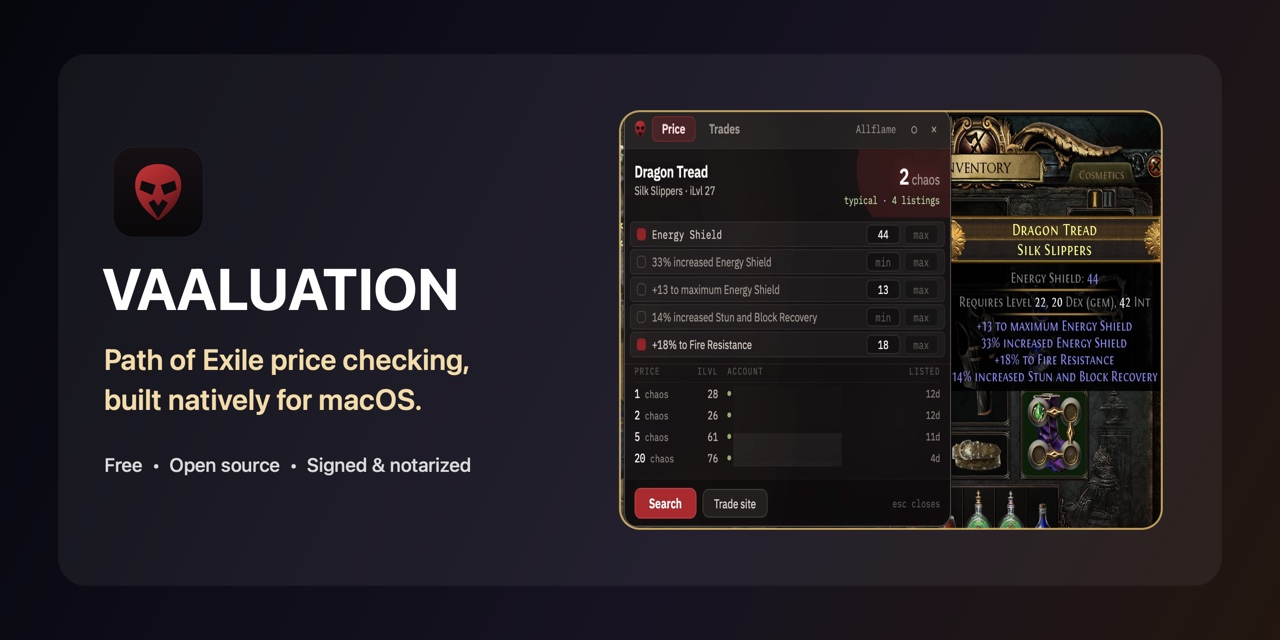
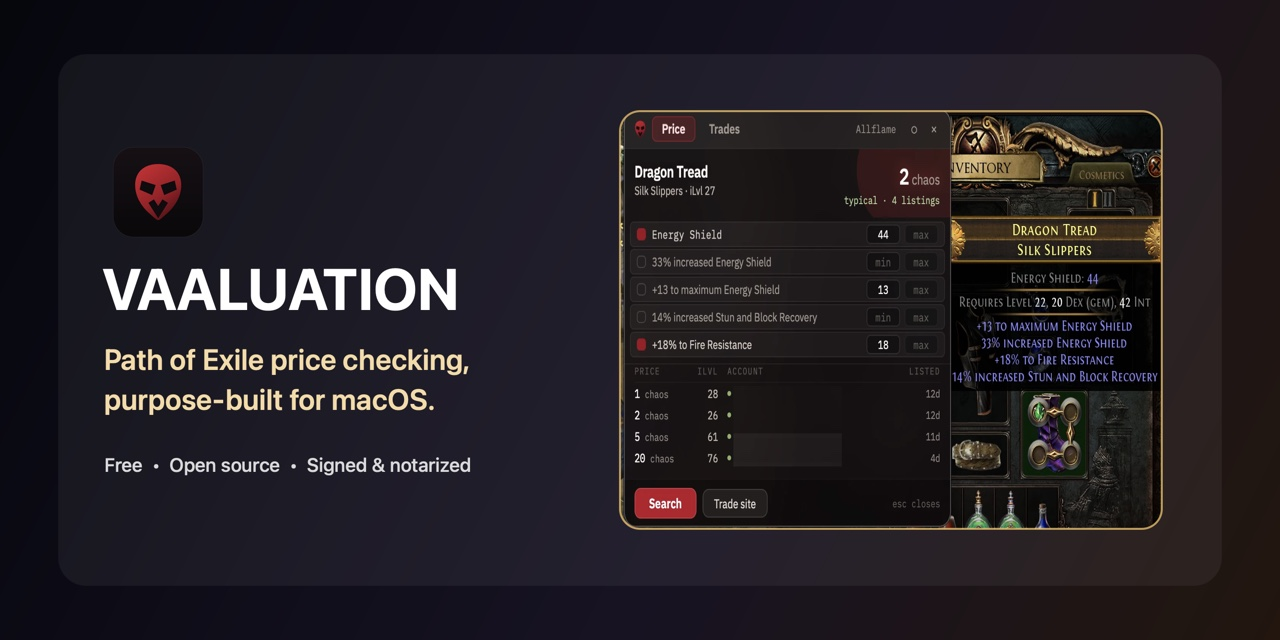
Clarify macOS positioning

Changed region(s): [[0.0938, 0.5938, 0.3438, 0.6562]]

diff --git a/README.md b/README.md
@@ -2,7 +2,7 @@
 
 # Vaaluation
 
-**The native Path of Exile price checker and trade overlay for macOS**
+**A Path of Exile price checker and trade overlay purpose-built for macOS**
 
 Hover an item. Press <kbd>Ctrl</kbd>+<kbd>D</kbd>. See comparable listings
 without leaving the game.
